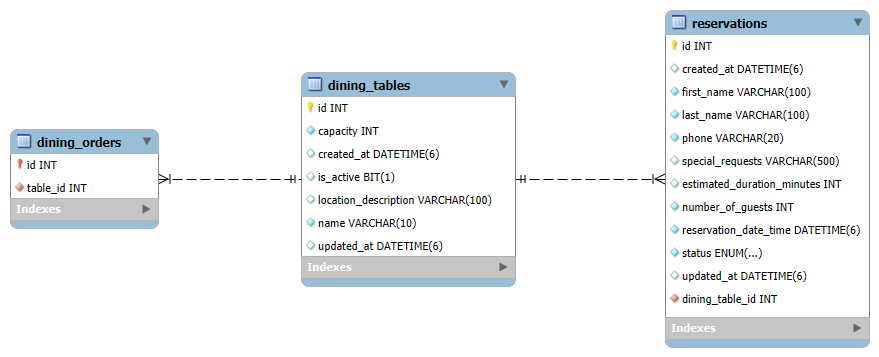
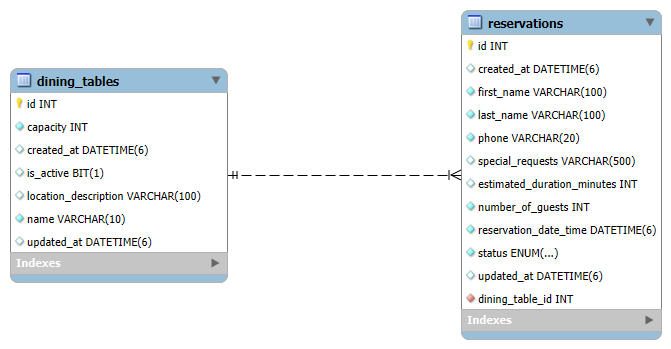
docs(C): Redactar apartado "Diseño arquitectónico"
Refs #125

Changed region(s): [[0.0, 0.1719, 0.5961, 0.8309], [0.6557, 0.0287, 1.0, 0.9742], [0.5663, 0.4871, 0.6259, 0.5158]]

diff --git a/docs/tex/C_Diseno.tex b/docs/tex/C_Diseno.tex
@@ -1,108 +1,108 @@
 \apendice{Especificación de diseño}
 
-%patrones: lombok patron Builder
-
 \section{Introducción}
 
-\todo[inline]{Redactar introducción general}
+Una vez consolidado el marco de requisitos, este apéndice establece el puente entre la fase de análisis y la implementación real de la plataforma de restauración. El objetivo es proyectar una solución técnica coherente que garantice la integridad de la información, la estabilidad de la infraestructura y la correcta ejecución de los procesos del sistema. Esta etapa resulta fundamental para asegurar que la construcción del software responda de manera eficiente a los objetivos planteados, proporcionando una estructura organizada que facilite tanto su desarrollo como su escalabilidad futura.
 
 %%%%%%%%%%%%%%%%%%%%%%%%%%%%%%%%%%%%%%%%%%%%%%%%%%%%%%%%%%%%%%%%
 
 \section{Diseño de datos}
 \label{sec:C.2_DiseñoDatos}
 
-\todo[inline]{Intro muy breve}
+En esta sección se describe la estructura lógica de la información que sustenta la plataforma de restauración. Se procede a describir las entidades involucradas y las relaciones entre ellas.
 
-\todo[inline]{Tablas que detallen cada atributo de cada clase (nombre, tipo de dato, descripción)???? o mencionar algún atributo relevante al menos}
-\todo[inline]{Relación IS-A en el diagrama -> editar}
+Los diagramas que se mostrarán a continuación han sido generados mediante la herramienta \textit{``Reverse Engineer''} de \textit{MySQL Workbench}. Cabe señalar que esta funcionalidad \textbf{no soporta} la representación de \textbf{relaciones IS-A}, presentes en la jerarquía de herencia de pedidos (figuras \ref{fig:C2_modeloEER_General} y xxxx). Adicionalmente, las representa con cardinalidad 1:N, lo cual no se corresponde con la cardinalidad real de las herencias con estrategia \textit{JOINED}, pero de nuevo, la herramienta no sabe diferenciar entre 1:1 y 1:N~\cite{stackOverflow:mysqlWorkbench}.
 
-\subsection{Modelo conceptual}
-\label{subsec:C.2_ModeloConceptual}
+\subsection{Modelo general}
+\label{subsec:C.2_ModeloGeneral}
 
-A continuación, se procede a listar las \textbf{entidades} que conforman la aplicación y a describir brevemente su propósito. Las \textbf{relaciones} entre entidades y detalles particulares se describirán en el apartado ``\textit{\nameref{subsec:C.2_ModelosDetallados}}''.
+A continuación, se procede a listar las \textbf{entidades} que conforman la aplicación y a describir brevemente su propósito. La figura \ref{fig:C2_modeloEER_General} muestra el esquema de bases de datos completo. Las \textbf{relaciones} entre entidades y detalles particulares se describirán en el apartado \textit{\nameref{subsec:C.2_ModelosDetallados}}.
 
 \begin{itemize}
 	\item \textbf{Usuario (\wordRef{\texttt{User}}{C.2_user}):} se trata de un empleado que utiliza la aplicación. Dispone de credenciales para ingresar en ella y tiene roles que determinan su comportamiento dentro del sistema.
 	\item \textbf{Rol (\wordRef{\texttt{Role}}{C.2_role}):}  agrupa un conjunto de permisos (\texttt{Permission}). Controla las acciones y el acceso a los recursos que un usuario puede tener en la aplicación.
 	\begin{itemize}
-		\item El enumerado \texttt{Permission} define todas las acciones que pueden ser autorizadas en el sistema. Los permisos se organizan por áreas funcionales (pedidos, mesas, reservas, etc.).
+		\item El enumerado \wordRef{\texttt{Permission}}{C.2_permission} define todas las acciones que pueden ser autorizadas en el sistema. Los permisos se organizan por áreas funcionales (pedidos, mesas, reservas, etc.).
 	\end{itemize}
 	\item \textbf{Alimento (\wordRef{\texttt{Food}}{C.2_food}):} representa un alimento ``base'' o materia prima básica (p. ej. \textit{``Lechuga''}, \textit{``Pollo''}), con una información nutricional asociada.
 	\item \textbf{Producto (\wordRef{\texttt{Product}}{C.2_product}):} se trata de un plato de comida o producto ofertado (p. ej. \textit{``Ensalada César''}) en el local, el cual se compone de varios alimentos y tiene un precio asociado.
 	\item \textbf{Ingrediente (\wordRef{\texttt{Ingredient}}{C.2_ingredient}):} representa la relación \textit{muchos a muchos} entre \texttt{Food} y \texttt{Product}. Contiene un atributo que determina la cantidad (en gramos) de un alimento que está presente en un producto determinado.
 	\item \textbf{Mesa (\wordRef{\texttt{DiningTable}}{C.2_diningTable}):} representa una mesa física del restaurante, que puede reservarse y desde la que se puede realizar un pedido.
 	\item \textbf{Reserva (\wordRef{\texttt{Reservation}}{C.2_reservation}):} contiene información sobre la reserva de una mesa de comedor, los datos del huésped que la realizó y la fecha, entre otros.
-	\item \textbf{Pedido (\wordRef{\texttt{Order}}{C.2_order}):} se trata de una comanda que se le hace a un empleado, esto es, uno o varios productos que se piden para ser consumidos y que suman un precio total. Se trata de una entidad ``padre'' que alberga los campos comunes entre tipos de pedidos. Se verá con mayor detalle en la subsección ``\textit{\nameref{subsec:C.2_ModelosDetallados}}''.
+	\item \textbf{Pedido (\wordRef{\texttt{Order}}{C.2_order}):} se trata de una comanda que se le hace a un empleado, esto es, uno o varios productos que se piden para ser consumidos y que suman un precio total. Se trata de una entidad ``padre'' que alberga los campos comunes entre tipos de pedidos. Se verá con mayor detalle en la subsección \textit{\nameref{subsec:C.2_ModelosDetallados}}.
 	\item \textbf{Pedido de bar (\wordRef{\texttt{BarOrder}}{C.2_barOrder}):} es un pedido que se realiza en la barra del bar y puede estar compuesto solo por bebidas (por lo que no sería necesario prepararlo en la cocina).
 	\item \textbf{Pedido de comedor (\wordRef{\texttt{DiningOrder}}{C.2_diningOrder}):} es una comanda que se realiza desde el comedor, por lo que tendrá una mesa asociada a la que llevar los platos.
 	\item \textbf{Línea de pedido (\wordRef{\texttt{OrderItem}}{C.2_orderItem}):} representa un ítem de cada pedido, que se conforma por un producto y una cantidad de dicho producto. Constituye un porcentaje del precio total del pedido.
 \end{itemize}
 
-Cabe destacar que todas las entidades disponen de campos de auditoría (\texttt{createdAt} y \texttt{updatedAt}) para rastrear automáticamente la creación y última modificación de cada registro.\todo{mencionar aquí o en 5. Aspectos relevantes?} %...con el objetivo de...?
+\imagenConEtiqueta[0.7\textwidth]{img/apen_C/C2_modeloEER_Completo.png}{Esquema de la Base de Datos}{C2_modeloEER_General}
 
-\imagenConEtiqueta[0.8\textwidth]{img/apen_C/C2_modeloEER_Conceptual.png}{Diagrama EER conceptual}{C2_modeloEER_Conceptual}
-
-La figura \ref{fig:C2_modeloEER_Conceptual} muestra el diagrama Entidad-Relación conceptual, el cual solo muestra las relaciones y atributos principales (PKs y FKs) del modelo para una mayor claridad y simplificación.
+Cabe destacar que todas las entidades disponen de campos de auditoría (\texttt{createdAt} y \texttt{updatedAt}) para rastrear automáticamente la creación y última modificación de cada registro. Adicionalmente, la presencia de \textbf{relaciones bidireccionales} entre entidades hace necesaria la creación de métodos que aseguren la \textbf{consistencia a ambos lados} de la relación, puesto que JPA no lo hace automáticamente. Este aspecto se verá con más detalle en el apartado <ref>.\todo{diseño procedimental}
 
 %---------------------------------------------------------------
 
 \subsection{Modelos detallados}
 \label{subsec:C.2_ModelosDetallados}
 
-Para facilitar la comprensión del modelo de datos, se presentan distintos diagramas Entidad-Relación que agrupan los módulos funcionales según su interdependencia.
+Para facilitar la comprensión del modelo de datos, se presentan distintos diagramas relacionales que agrupan los módulos funcionales según su interdependencia.
 
 \subsubsection{Modelo para gestión de usuarios y roles}
 
-\imagenConEtiqueta[0.7\textwidth]{img/apen_C/C2_modeloEER_Usuarios.png}{Diagrama EER para módulo de usuarios y roles}{C2_modeloEER_Usuarios}
+Este módulo, cuyo esquema se detalla en la figura \ref{fig:C2_modeloEER_Usuarios}, controla el acceso al sistema y los permisos del personal del restaurante.
 
-Este módulo, cuyo esquema se detalla en la figura \ref{fig:C2_modeloEER_Usuarios}, controla el acceso al sistema y los permisos del personal del restaurante. Las relaciones involucradas son:
+\imagenConEtiqueta[0.65\textwidth]{img/apen_C/C2_modeloEER_Usuarios.png}{Diagrama relacional para módulo de usuarios y roles}{C2_modeloEER_Usuarios}
 
+Las relaciones involucradas son:
 \begin{itemize}
 	\item \texttt{User} $\leftrightarrow$ \texttt{Role}: relación \texttt{\char`@{}ManyToMany} (N:M) bidireccional, lo que implica que un usuario puede tener varios roles y que un rol puede pertenecer a varios usuarios. Esta relación se implementa mediante la tabla \texttt{user\_roles}, la cual \textbf{no es una entidad JPA}, puesto que solo almacena claves foráneas y no tiene lógica de negocio.
-	\item \texttt{Role} $\rightarrow$ \texttt{Permission}: no se trata de una ``relación'' como tal, al no ser \texttt{Permission} una entidad\todo{incluir?}. La lista de permisos de un rol es una colección de elementos (\texttt{\char`@{}ElementCollection}) del enumerado \texttt{Permission} (1:N), lo que se traduce en una tabla separada \texttt{role\_permissions}. Esta tabla \textbf{no es una entidad JPA} porque solo sirve para almacenar relaciones simples sin atributos extra.
-	\item \texttt{Order} $\rightarrow$ \texttt{User}: relación \texttt{\char`@{}ManyToOne} (N:1), puesto que cada pedido está asociado a un empleado que lo crea o gestiona. La \textbf{unidireccionalidad} desde \texttt{Order} hacia \texttt{User} implica que los usuarios \textbf{no conocerán} (al menos, en primera instancia o sin necesidad de consultas adicionales) los pedidos asociados a ellos.
+	\item \texttt{Role} $\rightarrow$ \texttt{Permission}: la lista de permisos de un rol es una colección de elementos (\texttt{\char`@{}ElementCollection}) del enumerado \texttt{Permission} (1:N), lo que se traduce en una tabla separada \texttt{role\_permissions}. Esta tabla \textbf{no es una entidad JPA} porque solo sirve para almacenar relaciones simples sin atributos extra.
 \end{itemize}
 %-------------------------------
 \subsubsection{Modelo para gestión de alimentos y productos}
 
-\imagenConEtiqueta[0.6\textwidth]{img/apen_C/C2_modeloEER_Productos.png}{Diagrama EER para módulo de alimentos y productos}{C2_modeloEER_Productos}
+Este módulo, cuyo esquema se detalla en la figura \ref{fig:C2_modeloEER_Productos}, gestiona el catálogo de productos del restaurante y su composición en ingredientes, permitiendo calcular información nutricional automáticamente. 
 
-Este módulo, cuyo esquema se detalla en la figura \ref{fig:C2_modeloEER_Productos}, gestiona el catálogo de productos del restaurante y su composición en ingredientes, permitiendo calcular información nutricional automáticamente. Las relaciones involucradas son:
+\imagenConEtiqueta[0.7\textwidth]{img/apen_C/C2_modeloEER_Productos.png}{Diagrama relacional para módulo de alimentos y productos}{C2_modeloEER_Productos}
 
+Las relaciones involucradas son:
 \begin{itemize}
 	\item \texttt{Product} $\leftrightarrow$ \texttt{Ingredient} $\leftrightarrow$ \texttt{Food}: relación \texttt{\char`@{}ManyToMany} (N:M) implementada como dos relaciones (1:N) bidireccionales a través de la entidad intermedia \texttt{Ingredient}, la cual registra la cantidad en gramos. 
 	\begin{itemize}
 		\item La entidad \texttt{Ingredient} posee una \textbf{clave compuesta y derivada} (\texttt{\char`@{}EmbeddedId}), la cual se forma mediante las claves de \texttt{Food} y \texttt{Product}.
 	\end{itemize}
-	\item \texttt{OrderItem} $\rightarrow$ \texttt{Product}: relación \texttt{\char`@{}ManyToOne} (N:1) que vincula pedidos con productos, registrando cantidad, precio unitario y total. La \textbf{unidireccionalidad} desde \texttt{OrderItem} hacia \texttt{Product} implica que los productos \textbf{no conocerán} (al menos, en primera instancia o sin necesidad de consultas adicionales) los pedidos a los que han sido añadidos.
+	\item \texttt{Food} $\rightarrow$ \texttt{Allergen}: la lista de alérgenos de un alimento es una colección de elementos (\texttt{\char`@{}ElementCollection}) del enumerado \texttt{Allergen} (1:N), lo que se traduce en una tabla separada \texttt{food\_allergens}. Esta tabla \textbf{no es una entidad JPA} porque solo sirve para almacenar relaciones simples sin atributos extra.
 \end{itemize}
 
-Respecto a la \textbf{información nutricional} que almacena un alimento, cabe destacar el uso de \textbf{objetos embebidos} (\texttt{\char`@{}Embeddable}) para almacenar los datos en una sola tabla \texttt{foods}, pero manteniendo una separación entre clases: \texttt{NutritionInfo}, \texttt{Minerals} y \texttt{Vitamins}. Esto permite la reutilización, encapsulación y cálculo de operaciones matemáticas particulares. Se explica con más detalle en \revisionC{<ref>}.\todo{ref a apartado de mejoras respecto de nutrimenu -> NO, ref al pull request 51 y 52}
+Respecto a la \textbf{información nutricional} que almacena un alimento, cabe destacar el uso de \textbf{objetos embebidos} (\texttt{\char`@{}Embeddable}) para almacenar los datos en una sola tabla \texttt{foods}, pero manteniendo una separación entre clases: \texttt{NutritionInfo}, \texttt{Minerals} y \texttt{Vitamins}. Esto permite la reutilización, encapsulación y cálculo de operaciones matemáticas particulares. Se explica con más detalle en los \textit{pull requests} 
+\href{https://github.com/aperezolmos/Orderly/pull/51}{\#51} y 
+\href{https://github.com/aperezolmos/Orderly/pull/52}{\#52} 
+del repositorio del proyecto.
 %-------------------------------
 \subsubsection{Modelo para gestión de reservas de mesas}
 
-\imagenConEtiqueta[0.7\textwidth]{img/apen_C/C2_modeloEER_Reservas.png}{Diagrama EER para módulo de reservas de mesas}{C2_modeloEER_Reservas}
+Este módulo, cuyo esquema se detalla en la figura \ref{fig:C2_modeloEER_Reservas}, permite gestionar las mesas del comedor y asignar reservas para fechas futuras. 
 
-Este módulo, cuyo esquema se detalla en la figura \ref{fig:C2_modeloEER_Reservas}, permite gestionar las mesas del comedor y asignar reservas para fechas futuras. Las relaciones involucradas son:
+\imagenConEtiqueta[0.6\textwidth]{img/apen_C/C2_modeloEER_Reservas.png}{Diagrama relacional para módulo de reservas de mesas}{C2_modeloEER_Reservas}
 
+Las relaciones involucradas son:
 \begin{itemize}
-	\item \texttt{Reservation} $\rightarrow$ \texttt{DiningTable}: relación \texttt{\char`@{}ManyToOne} (N:1), la cual define que una reserva debe llevar una mesa asociada y que una mesa puede tener múltiples reservas en distintas fechas. La \textbf{unidireccionalidad} implica que una mesa \textbf{no conoce} su historial de reservas, puesto que sobrecargaría demasiado la entidad.
-	\item \texttt{DiningOrder} $\rightarrow$ \texttt{DiningTable}: relación \texttt{\char`@{}ManyToOne} (N:1), puesto que un pedido de comedor debe estar vinculado a una mesa en particular y una mesa tendrá un historial de pedidos pasados (que no conoce directamente, al ser una relación \textbf{unidireccional}).
+	\item \texttt{Reservation} $\rightarrow$ \texttt{DiningTable}: relación \texttt{\char`@{}ManyToOne} (N:1), la cual define que una reserva debe llevar una mesa asociada y que una mesa puede tener múltiples reservas en distintas fechas. La \textbf{unidireccionalidad} desde \texttt{Reservation} hacia \texttt{DiningTable} implica que una mesa \textbf{no conoce} su historial de reservas, puesto que sobrecargaría demasiado la entidad.
 \end{itemize}
 
 En este módulo también hay presencia de \textbf{clases embebidas} para almacenar detalles de una reserva \texttt{ReservationDetails}, (como el número de comensales, fecha y hora) e información del cliente \texttt{GuestInfo} (como el nombre y teléfono de contacto) en distintas clases, manteniendo la tabla unificada \texttt{reservations}.
 %-------------------------------
 \subsubsection{Modelo para gestión de pedidos}
 
-\imagenConEtiqueta[0.7\textwidth]{img/apen_C/C2_modeloEER_Pedidos.png}{Diagrama EER para módulo de pedidos}{C2_modeloEER_Pedidos}
+En este módulo, cuyo esquema se detalla en la figura \ref{fig:C2_modeloEER_Pedidos}, se anotan las comandas realizadas al restaurante, que pueden hacerse desde la barra del bar o desde el comedor. Una comanda se compone de una serie de productos, cada uno con su cantidad y precio de venta asociados, que se manejan en conjunto y tienen un precio total. 
 
-En este módulo, cuyo esquema se detalla en la figura \ref{fig:C2_modeloEER_Pedidos}, se anotan las comandas realizadas al restaurante, que pueden hacerse desde la barra del bar o desde el comedor. Una comanda se compone de una serie de productos, cada uno con su cantidad y precio de venta asociados, que se manejan en conjunto y tienen un precio total. Las relaciones involucradas son:
+\imagenConEtiqueta[0.75\textwidth]{img/apen_C/C2_modeloEER_Pedidos.png}{Diagrama relacional para módulo de pedidos}{C2_modeloEER_Pedidos}
 
+Las relaciones involucradas son:
 \begin{itemize}
-	\item \texttt{Order} $\rightarrow$ \texttt{User}: relación \texttt{\char`@{}ManyToOne} (N:1) unidireccional, puesto que un pedido será creado o manejado por un empleado.
+	\item \texttt{Order} $\rightarrow$ \texttt{User}: relación \texttt{\char`@{}ManyToOne} (N:1) unidireccional, puesto que un pedido será creado o manejado por un empleado. La \textbf{unidireccionalidad} desde \texttt{Order} hacia \texttt{User} implica que los usuarios \textbf{no conocerán} (al menos, en primera instancia o sin necesidad de consultas adicionales) los pedidos asociados a ellos.
 	\item \texttt{Order} $\rightarrow$ \texttt{OrderItem}: relación \texttt{\char`@{}OneToMany} (1:N), puesto que un pedido contendrá múltiples ítems. En \textit{Spring Boot} se definió como bidireccional, para que los ítems pudieran notificar al pedido padre que recalculase su precio total. Sin embargo, en la práctica funcionará como \textbf{unidireccional}, puesto que los ítems no consultarán ni gestionarán en ningún momento el pedido al que pertenecen.
-	\item \texttt{OrderItem} $\rightarrow$ \texttt{Product}: relación \texttt{\char`@{}ManyToOne} (N:1) unidireccional, debido a que cada ítem referencia a una cantidad determinada de un producto ofertado en el catálogo.
-	\item \texttt{DiningOrder} $\rightarrow$ \texttt{DiningTable}: relación \texttt{\char`@{}ManyToOne} (N:1) unidireccional, puesto que un pedido de comedor debe estar asociado a la mesa donde se servirá.
+	\item \texttt{OrderItem} $\rightarrow$ \texttt{Product}: relación \texttt{\char`@{}ManyToOne} (N:1) unidireccional, debido a que cada ítem referencia a una cantidad determinada de un producto ofertado en el catálogo. La \textbf{unidireccionalidad} desde \texttt{OrderItem} hacia \texttt{Product} implica que los productos \textbf{no conocerán} (al menos, en primera instancia o sin necesidad de consultas adicionales) los pedidos a los que han sido añadidos.
+	\item \texttt{DiningOrder} $\rightarrow$ \texttt{DiningTable}: relación \texttt{\char`@{}ManyToOne} (N:1), puesto que un pedido de comedor debe estar asociado a la mesa donde se servirá. Una mesa tendrá un historial de pedidos pasados, pero debido a que se trata de una relación \textbf{unidireccional}, no conocerá dicho historial (esto sobrecargaría demasiado la entidad).
 \end{itemize}
 
 El aspecto más característico de este módulo es la presencia de una \textbf{jerarquía de herencia}, para manejar los distintos tipos de pedidos (bar o comedor) desde un enfoque organizado y escalable. El uso de herencia permite \textbf{atributos específicos} por tipo, mientras comparte \textbf{datos comunes} eficientemente. La estrategia de herencia utilizada es 
@@ -112,6 +112,87 @@ y los motivos de su elección, así como una descripción más detallada de los 
 %%%%%%%%%%%%%%%%%%%%%%%%%%%%%%%%%%%%%%%%%%%%%%%%%%%%%%%%%%%%%%%%
 
 \section{Diseño arquitectónico}
+
+En esta sección se define la estructura global del sistema, la organización de sus componentes y las reglas que rigen la comunicación entre ellos. Para este proyecto, se ha optado por una arquitectura moderna que prioriza la modularidad, alta cohesión y bajo acoplamiento. La estructura busca garantizar la escalabilidad del sistema y facilitar el mantenimiento independiente de sus componentes fundamentales.
+
+\subsection{Arquitectura de la aplicación}
+
+El sistema implementa un modelo de arquitectura \textbf{cliente-servidor desacoplada}. En este esquema, el \textit{frontend} (\textit{React}) y el \textit{backend} (\textit{Spring Boot}) se constituyen como sistemas independientes que interactúan exclusivamente a través de una interfaz de programación de aplicaciones (\textbf{API}) de tipo \textbf{REST} (\textit{Representational State Transfer}).
+
+La infraestructura se apoya en la \textbf{\textit{contenerización}} mediante \textit{Docker}, donde cada servicio se despliega en un entorno aislado. El intercambio de información se realiza sobre el protocolo HTTP, empleando \textbf{JSON} como formato de serialización de datos. Esta separación física y lógica permite que ambos extremos evolucionen tecnológicamente de forma autónoma, facilitando tareas de despliegue continuo y escalabilidad horizontal.
+
+\imagenConEtiqueta[0.9\textwidth]{img/apen_C/C3_arquitectura.png}{Arquitectura general de Orderly}{C3_arquitectura}
+
+La figura \ref{fig:C3_arquitectura} muestra un diagrama que ilustra la arquitectura general de la aplicación. A continuación se explicarán con más detalle los componentes principales que constituyen cada servicio.
+
+\subsubsection{Arquitectura del \textit{backend}}
+
+El \textit{backend}, desarrollado bajo el ecosistema de \textit{Spring Boot}, sigue un patrón de \textbf{arquitectura por capas} (\textit{Layered Architecture}). Esta organización jerárquica permite una clara separación de responsabilidades, facilitando la testabilidad y la reutilización de componentes. Las capas se definen de la siguiente manera:
+\begin{enumerate}
+	\item \textbf{Capa de Presentación (Controladores):} implementada mediante controladores REST, se encarga de la exposición de recursos (\textit{endpoints} a los que el cliente puede llamar) y la gestión de los contratos de la API. Su responsabilidad se limita a la interceptación de peticiones, la delegación del trabajo a los servicios y la generación de respuestas HTTP adecuadas.
+	\item \textbf{Capa de Aplicación (Servicios):} constituye el núcleo de la lógica de negocio del sistema. Los servicios actúan como orquestadores de las operaciones, gestionando la transaccionalidad, las reglas de dominio y la integración con otros servicios.
+	\item \textbf{Capa de Dominio (Entidades):} define el modelo de persistencia del sistema mediante entidades JPA (\textit{Java Persistence API}). Estas clases representan el esquema de datos y las relaciones de negocio en la base de datos \textit{MySQL}, como ya se ha detallado en el apartado \textit{\ref{sec:C.2_DiseñoDatos} \nameref{sec:C.2_DiseñoDatos}}.
+	\item \textbf{Capa de Persistencia (Repositorios):} utiliza \textit{Spring Data JPA}\todo{ref?} para abstraer el acceso a los datos. Los repositorios facilitan la realización de operaciones CRUD y consultas complejas, de forma desacoplada del motor de base de datos específico.
+\end{enumerate}
+
+\todo[inline]{DTOs y mappers? ya se menciona en la memoria. pero aquí podrían ponerse capturas de ejemplo o así}
+
+\subsubsection{Arquitectura del \textit{frontend}}\todo{poner imágenes/capturas de un ejemplo de cada uno? o diagrama?}
+
+El \textit{frontend} se ha diseñado bajo el paradigma de \textbf{arquitectura basada en componentes} de \textit{React}, priorizando el principio de separación de intereses (\textit{\textbf{Separation of Concerns}} - \textit{SoC}). La lógica se distribuye para evitar componentes monolíticos y facilitar la mantenibilidad:
+
+\begin{itemize}
+	\item \textbf{Componentes de interfaz (UI):} son las piezas visuales (botones, formularios, tablas). Su responsabilidad se limita a mostrar la información y capturar las interacciones del usuario, delegando cualquier lógica compleja a otros elementos.
+	\item \textbf{\textit{Hooks} personalizados:} se utilizan para encapsular la lógica de estado (estados de carga, errores) y los efectos secundarios ocasionados por las llamadas asíncronas. Esta abstracción permite reutilizar comportamientos complejos a lo largo de toda la aplicación y ofrece un punto \textbf{centralizado} de comunicación con los servicios específicos de cada módulo.
+	\item \textbf{Servicios de API:} actúan como una capa de abstracción sobre el cliente de transporte (\texttt{fetch}). \textbf{Centralizan} las llamadas a la API de \textit{Spring Boot}, de modo que cualquier cambio en los \textit{endpoints} o en la estructura de las peticiones solo requiera modificaciones en un único punto del código.
+	\item \textbf{Gestión de estado global:} para el manejo de datos transversales a la aplicación, como la sesión del usuario o sus permisos asociados, se utilizan contextos que gestionan el estado global (\textit{\textbf{Context API}} de \textit{React}\todo{referencia a web que hable de ello y/o imagen de authprovider}). Esto evita el fenómeno de \textit{prop drilling}\todo{ref} (paso excesivo de propiedades entre niveles), permitiendo que cualquier componente acceda al contexto de autenticación (\texttt{AuthContext}) de forma eficiente.
+\end{itemize}
+
+%---------------------------------------------------------------
+
+\subsection{Seguridad: Modelo RBAC y gestión de acceso}
+La seguridad del sistema se ha diseñado bajo un modelo de \textbf{control de acceso basado en roles} (\textit{RBAC})\todo{ref} de \textbf{granularidad fina}. A diferencia de modelos más simples donde el rol determina directamente el acceso, en esta arquitectura los roles actúan como contenedores lógicos de permisos individuales. Estos permisos, definidos en el enumerado \hyperref[word:C.2_permission]{\texttt{Permission}}, representan acciones atómicas sobre las entidades del dominio (ej. \texttt{FOOD\_CREATE}, \texttt{ORDER\_EDIT}, \texttt{USER\_VIEW\_LIST}).
+
+Esta aproximación permite una gestión altamente flexible y adaptable a la estructura organizativa de un local de restauración. Dado que un usuario puede tener asignados \textbf{múltiples roles} simultáneamente, el sistema evalúa de forma aditiva el conjunto total de permisos, permitiendo el acceso si al menos uno de los roles del usuario posee el permiso requerido. Esto facilita la creación de \textbf{perfiles profesionales} específicos, como por ejemplo:
+\begin{itemize}
+	\item \textbf{Camarero:} con permisos para gestionar pedidos y consultar reservas.
+	\item \textbf{Cocinero:} con permisos para gestionar alimentos y visualizar pedidos pendientes de cocina.
+\end{itemize}
+
+Algunos ejemplos de configuraciones de permisos que materializan puestos de trabajo comunes se encuentran en el apartado <ref>.\todo{ref a manual de programador o usuario}
+
+\subsubsection{Implementación en el \textit{backend} y propagación al \textit{frontend}}
+En la capa de aplicación, la seguridad se articula mediante \textit{Spring Security}. Se ha implementado un servicio personalizado (\texttt{CustomUserDetailsService}) que carga el perfil del usuario y transforma tanto los roles como sus permisos asociados en una colección de \texttt{GrantedAuthority}\footnote{Las autoridades (\textit{``authorities''}) son la unidad de medida que \textit{Spring Security} utiliza para entender y validar los permisos de un usuario.}. La protección de los recursos se realiza de forma declarativa mediante la anotación @\texttt{PreAuthorize }en los métodos de los \textbf{controladores}, verificando que el usuario autenticado posea la autoridad específica necesaria antes de ejecutar la lógica de negocio.
+
+\imagenConEtiqueta[0.7\textwidth]{img/apen_C/C3_springSecurity_auth.png}{Flujo de autenticación en \textit{Spring Security}~\cite{springSecurity:auth}}{C3_springSecurity_auth}
+
+Para garantizar una experiencia de usuario coherente, el estado de autenticación y el catálogo de permisos se propagan al \textit{frontend}. El \texttt{AuthContext} de \textit{React} actúa como el núcleo de decisión en el cliente, permitiendo el \textbf{renderizado condicional de componentes} de la interfaz de usuario. De este modo, elementos críticos como botones de edición o opciones de administración \textbf{se ocultan preventivamente} si el usuario no cuenta con la autorización pertinente, mejorando la usabilidad y reforzando la seguridad de la aplicación.
+
+\subsubsection{Gestión de Sesiones y autenticación}
+El sistema emplea una estrategia de autenticación basada en sesión HTTP, gestionada de forma transparente por \textit{Spring Security}. Tras una validación exitosa de credenciales, el \textbf{servidor establece una sesión} y emite una \textit{cookie} \texttt{JSESSIONID}. Esta \textit{cookie}, configurada con los atributos de seguridad adecuados, es gestionada automáticamente por el navegador en las peticiones subsiguientes. El \textit{frontend} detecta este estado de sesión para mantener la \textbf{persistencia del usuario entre recargas} de página, permitiendo un flujo de trabajo ininterrumpido.
+
+%---------------------------------------------------------------
+
+\subsection{Desacoplamiento de integraciones con APIs nutricionales externas}
+
+Una cuestión a la que se le ha dado gran importancia es el \textbf{aislamiento} de dependencias externas. La aplicación se integra con la API de \textit{Open Food Facts} para el enriquecimiento de datos nutricionales, pero esta \textbf{integración se gestiona exclusivamente en el \textit{backend}}, permaneciendo totalmente opaca para el \textit{frontend}, como se puede visualizar en la figura \ref{fig:C3_arquitectura}.
+
+El diseño se apoya en un módulo independiente que encapsula la lógica de comunicación, mapeo y transformación de datos externos (directorio \texttt{\textbackslash foods\textbackslash external}). Mediante el uso de la clase \texttt{OpenFoodFactsRegistry} (figura \ref{fig:C3_OFFregistry}), se establece una fuente única de verdad (\textit{\textbf{Single Source of Truth}}) para las \textbf{equivalencias} entre los códigos de la API externa y los tipos internos de la aplicación (como alérgenos o grupos de alimentos). Este desacoplamiento ofrece dos \textbf{ventajas} críticas:
+\begin{itemize}
+	\item \textbf{Mantenibilidad:} cualquier cambio en la estructura o en los puntos de acceso de la API externa solo requiere modificaciones en el módulo dedicado del \textit{backend}.
+	\item \textbf{Extensibilidad:} facilita la \textbf{sustitución} o adición de \textbf{nuevos proveedores} de datos nutricionales con un impacto mínimo en el resto del sistema, ya que el contrato de datos que recibe el \textit{frontend} permanece inalterado. Esta cuestión se explora más a fondo en el apartado <ref>\todo{ref a manual programador}.
+\end{itemize}
+
+\imagenConEtiqueta[0.9\textwidth]{img/apen_C/C3_OFFregistry.png}{Clase \texttt{OpenFoodFactsRegistry} con equivalencias entre campos de la API \textit{Open Food Facts} y modelo de nuestra aplicación}{C3_OFFregistry}
+
+%---------------------------------------------------------------
+
+\subsection{Infraestructura y despliegue}
+La infraestructura de la aplicación se gestiona mediante \textit{Docker}, empleando \textit{\textbf{Docker Compose}} para la orquestación de los servicios. El sistema se descompone en \textbf{tres contenedores independientes}: el entorno de ejecución para el \textit{frontend} (\textit{React/Vite}), el servidor de aplicaciones (\textit{Spring Boot}) y el motor de base de datos (\textit{MySQL}).
+
+\imagenConEtiqueta[0.9\textwidth]{img/apen_C/C3_despliegue.png}{Diagrama de despliegue de la aplicación}{C3_despliegue}
+
+El diagrama \ref{fig:C3_despliegue} muestra la arquitectura de despliegue mencionada, cuyos aspectos técnicos (red, dependencias, variables de entorno) asociados se verán con más detalle en el apartado <ref>\todo{ref a manual programador o similar}.
 
 %%%%%%%%%%%%%%%%%%%%%%%%%%%%%%%%%%%%%%%%%%%%%%%%%%%%%%%%%%%%%%%%
 

diff --git a/docs/anexos.tex b/docs/anexos.tex
@@ -7,6 +7,10 @@
 
 \usepackage{longtable,booktabs}
 \usepackage{enumitem}
+
+\usepackage{pdflscape}
+\usepackage{pifont}
+\usepackage{hhline}
 %%%%%%%%%%%%%%%%%%%%%%%%%%%%%%
 
 % Castellano
@@ -297,6 +301,14 @@
 \newcommand{\revisionA}[1]{\colorbox{red!40}{#1}}
 \newcommand{\revisionB}[1]{\colorbox{yellow!75}{#1}}
 \newcommand{\revisionC}[1]{\colorbox{green!60}{#1}}
+
+% TABLA COMPARATIVA PERMISOS ACTORES (apéndice B)
+\definecolor{verdeSuave}{RGB}{208, 250, 180}
+\definecolor{amarilloSuave}{RGB}{252, 252, 162}
+
+\newcommand{\TICK}{\cellcolor{verdeSuave}\ding{51}} 
+\newcommand{\QUES}{\cellcolor{amarilloSuave}\textbf{?}}
+
 
 % REQUISITOS (listado ítems) + ETIQUETA. Los parámetros son:
 % 1 -> Texto visible (ej: RF-2.7 Listar productos:)
